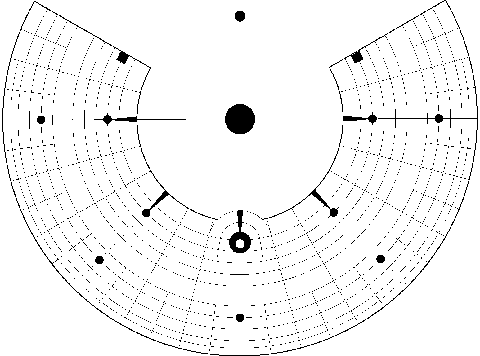
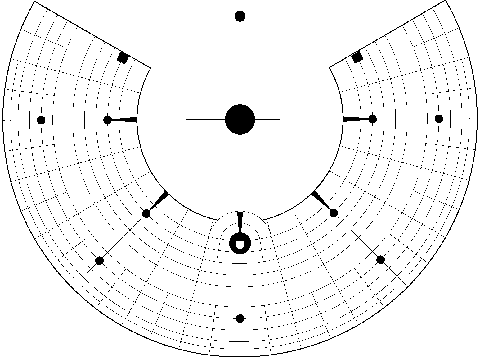
fix: bottom-align map on screen, refine resize tool
- image_position changed from [0, 300] to [0, 443]
  Map now spans y:443-800 (bottom of city touches screen bottom)
  Leaves 443px above for friend labels and status text

- Updated anchors for new position: The Man at (240, 620)
- resize_map.py now uses round() for size calculation,
  clean Resampling import (no fallback needed),
  and suggests bottom-aligned image_position by default

diff --git a/tools/resize_map.py b/tools/resize_map.py
@@ -44,10 +44,18 @@ def main():
         help="Output PNG file",
     )
     parser.add_argument(
-        "-W", "--width", type=int, default=screen_w, help=f"Target width (default: {screen_w})"
+        "-W",
+        "--width",
+        type=int,
+        default=screen_w,
+        help=f"Target width (default: {screen_w})",
     )
     parser.add_argument(
-        "-H", "--height", type=int, default=screen_h, help=f"Target height (default: {screen_h})"
+        "-H",
+        "--height",
+        type=int,
+        default=screen_h,
+        help=f"Target height (default: {screen_h})",
     )
     args = parser.parse_args()
 
@@ -58,16 +66,13 @@ def main():
 
     # Fit within target size maintaining aspect ratio
     scale = min(args.width / orig_w, args.height / orig_h)
-    new_w = int(orig_w * scale)
-    new_h = int(orig_h * scale)
+    new_w = round(orig_w * scale)
+    new_h = round(orig_h * scale)
 
     # Resize using NEAREST for 1-bit images (preserves sharp edges)
-    try:
-        from PIL.Image import Resampling
+    from PIL.Image import Resampling
 
-        resample = Resampling.NEAREST if mode == "1" else Resampling.LANCZOS
-    except ImportError:
-        resample = Image.NEAREST if mode == "1" else Image.LANCZOS
+    resample = Resampling.NEAREST if mode == "1" else Resampling.LANCZOS
     resized = img.resize((new_w, new_h), resample)
 
     # Ensure output is 1-bit
@@ -78,11 +83,12 @@ def main():
     print(f"Output: {args.output}  ({new_w}×{new_h}, {resized.mode})")
     print(f"Scale:  {scale:.3f}  ({orig_w}→{new_w}, {orig_h}→{new_h})")
 
-    # Suggest config updates
+    # Suggest config updates (bottom-aligned: map touches bottom of screen)
     print()
     print("Suggested config.yaml updates:")
-    print(f"  image_position: [{(args.width - new_w) // 2}, {(args.height - new_h) // 2}]")
-    print(f"  # map_file: {Path(args.output).name}  (if different from current)")
+    bottom_y = args.height - new_h
+    print(f"  image_position: [{(args.width - new_w) // 2}, {bottom_y}]")
+    print(f"  # map_file: \"{Path(args.output).name}\"  (if different from current)")
 
 
 if __name__ == "__main__":
